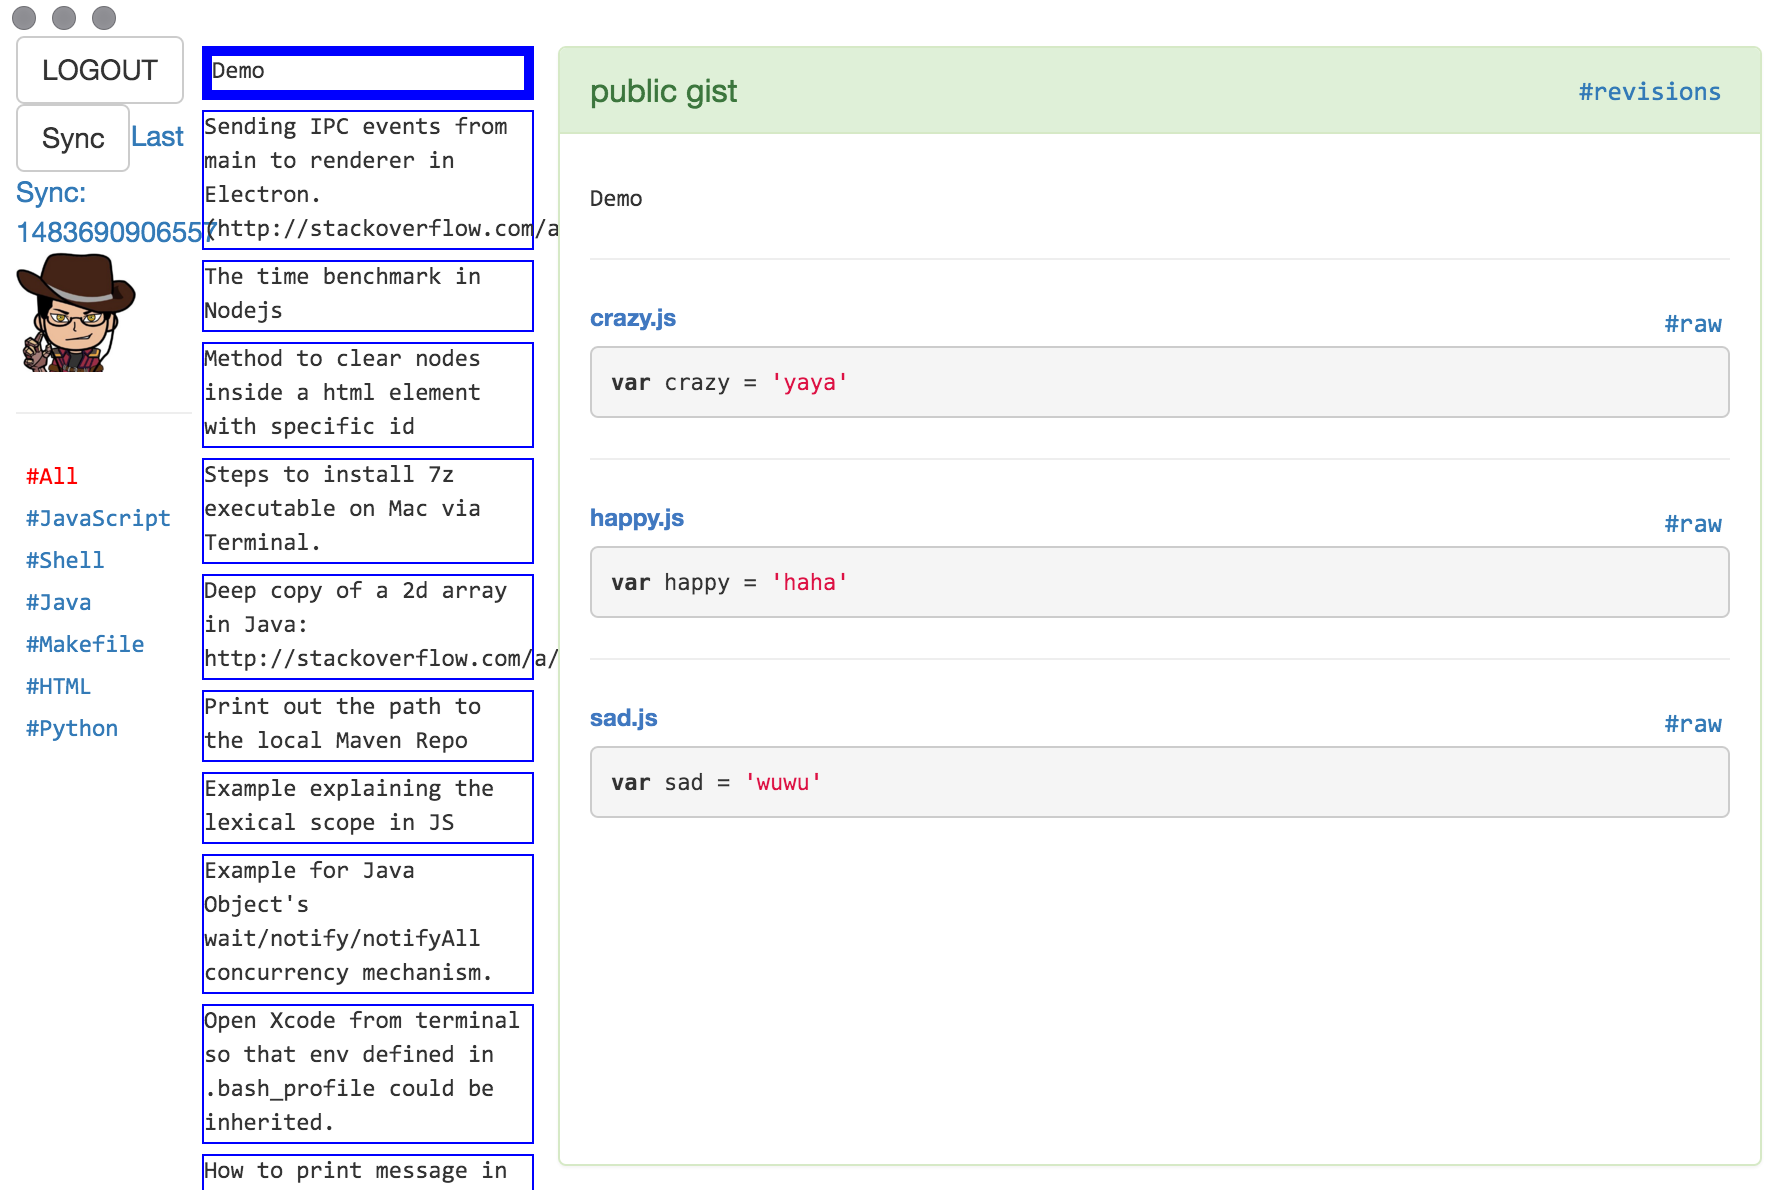
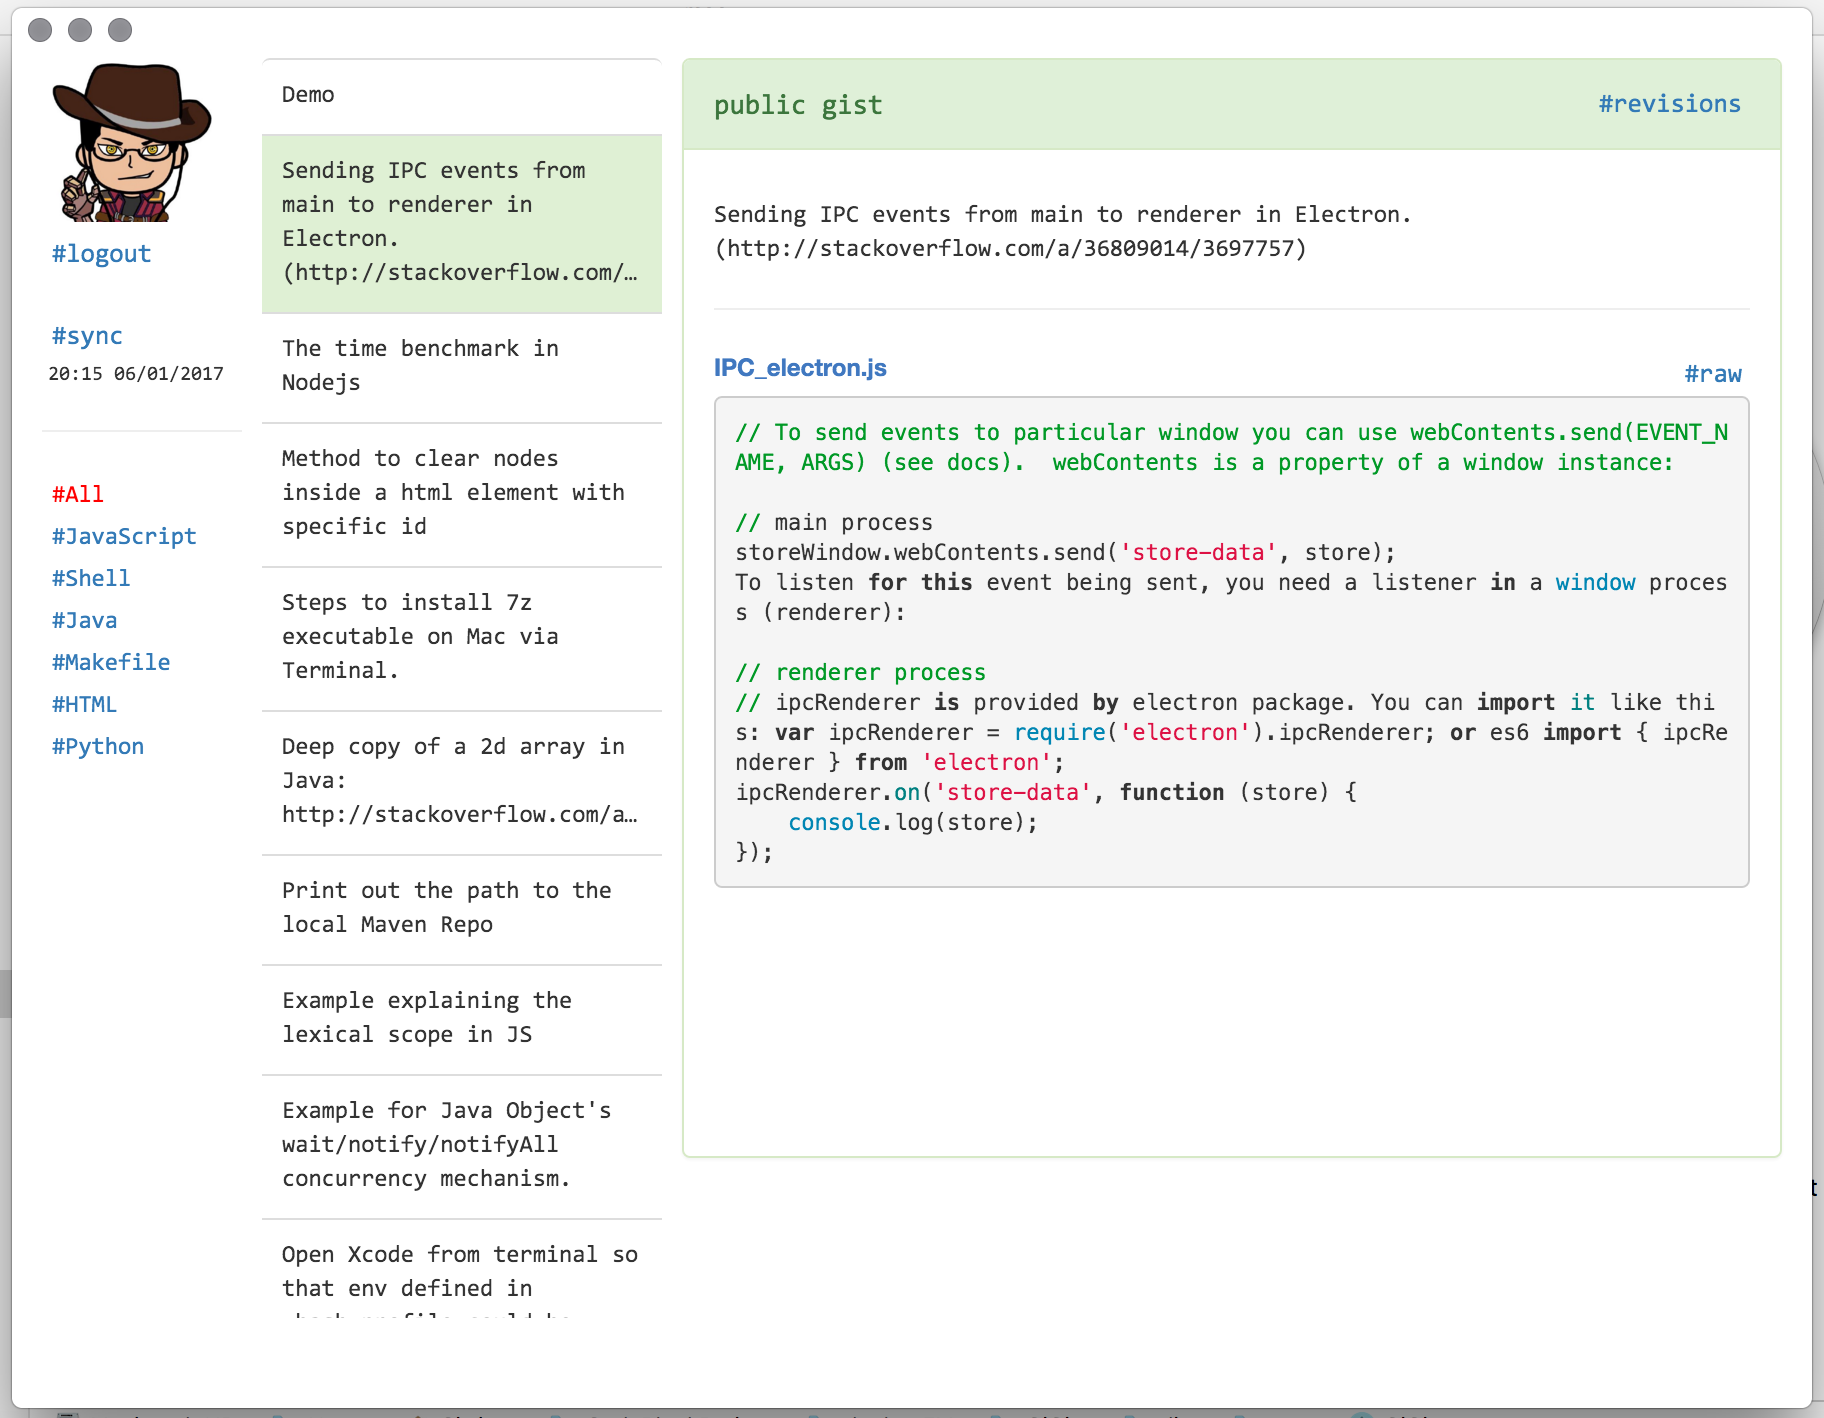
More stylish user profile

Changed region(s): [[0.0, 0.0, 1.0, 1.0], [0.3384, 0.6529, 0.3999, 0.7151]]

diff --git a/app/containers/userPanel/index.js b/app/containers/userPanel/index.js
@@ -11,19 +11,29 @@ class UserPanel extends Component {
 
   renderOutSection () {
     return (
-      <Button type="button" className='user-session-button'
-        onClick={ () => this.handleLoginClicked() }>LOGIN</Button>
+      <a href='#'
+        className='customized-button'
+        onClick={ this.handleLoginClicked.bind(this) }>
+        #login
+      </a>
     )
   }
 
   renderInSection () {
     return (
       <div>
-        <Button type="button" className='user-session-button'
-          onClick={ this.handleLogoutClicked.bind(this) }>LOGOUT</Button>
-        <Button type="button" className='user-session-button'
-          onClick={ this.handleSyncClicked.bind(this) }>Sync</Button>
-        <a>Last Sync: { this.props.syncTime }</a>
+        <a href='#'
+          className='customized-tag'
+          onClick={ this.handleLogoutClicked.bind(this) }>
+          #logout
+        </a>
+        <br/><br/>
+        <a href='#'
+          className='customized-tag'
+          onClick={ this.handleSyncClicked.bind(this) }>
+          #sync
+        </a>
+        <div className='customized-tag-small'>{ this.props.syncTime }</div>
       </div>
     )
   }

diff --git a/app/index.js b/app/index.js
@@ -9,6 +9,7 @@ import thunk from 'redux-thunk'
 import ReqPromise from 'request-promise'
 import AppContainer from './containers/appContainer'
 import Account from '../configs/account'
+import HumanReadableTime from 'human-readable-time'
 import RootReducer from './reducers'
 import {
   updateGists,
@@ -62,7 +63,7 @@ function launchAuthWindow () {
     if (code || error) {
       // Close the browser if code found or error
       console.log('** Clear the session and destroy the auth browser')
-    //   authWindow.webContents.session.clearStorageData([], () => {})
+      authWindow.webContents.session.clearStorageData([], () => {})
       authWindow.destroy()
     }
 
@@ -234,7 +235,7 @@ function updateUserGists (userLoginId, accessToken) {
       }) // gistList.forEach
 
       // refresh the redux state
-      setSyncTime(Date.now())
+      setSyncTime(HumanReadableTime(new Date()))
       updateGistStoreAfterSync(gists)
       updateLangTagsAfterSync(langTags)
       updateActiveLangTagAfterSync(langTags, activeTagCandidate)

diff --git a/app/containers/navigationPanelDetails/index.scss b/app/containers/navigationPanelDetails/index.scss
@@ -3,7 +3,7 @@
 	float: left;
 	width: 200px;
 	overflow: auto;
-    height: 95vh;
+    height: 90vh;
 }
 
 .snippet-thumnail-list-item {
@@ -20,7 +20,7 @@
 .snippet-thumnail {
 	margin: 5px;
 	font-family: Consolas, Menlo, Monaco, "Courier New", monospace;
-	font-size: 12px;
+	font-size: 13px;
 	overflow: hidden;
 	text-overflow: ellipsis;
 }
@@ -29,14 +29,14 @@
 	padding: 5px;
 	background: #DFF0D4;
 	font-family: Consolas, Menlo, Monaco, "Courier New", monospace;
-	font-size: 12px;
+	font-size: 13px;
 }
 
 .active-snippet-thumnail-private {
 	padding: 5px;
 	background: #F2DEDE;
 	font-family: Consolas, Menlo, Monaco, "Courier New", monospace;
-	font-size: 12px;
+	font-size: 13px;
 }
 
 .snippet-thumnail-description {
@@ -44,5 +44,5 @@
 	overflow: hidden;
 	text-overflow: ellipsis;
 	font-family: Consolas, Menlo, Monaco, "Courier New", monospace;
-	font-size: 12px;
+	font-size: 13px;
 }

diff --git a/app/containers/snippet/index.scss b/app/containers/snippet/index.scss
@@ -38,21 +38,21 @@
 
 .file-name {
   color: #4078C0;
-  font-size: 12px;
+  font-size: 13px;
   margin-bottom: 5px;
 }
 
 .modal-content {
   min-height: 500px;
   font-family: Consolas, Menlo, Monaco, "Courier New", monospace;
-  font-size: 12px;
+  font-size: 13px;
   white-space: nowrap;
   overflow: auto;
 }
 
 p {
   font-family: Consolas, Menlo, Monaco, "Courier New", monospace;
-  font-size: 12px;
+  font-size: 13px;
   margin: 10px 0px 0px 0px !important
 }
 

diff --git a/app/containers/navigationPanel/index.scss b/app/containers/navigationPanel/index.scss
@@ -1,14 +1,14 @@
 .menu-panel {
 	margin: 2px 5px;
 	float: left;
-	width: 96px;
+	width: 100px;
 	height: 95vh;
 }
 
 .lang-tag {
 	margin: 5px;
 	font-family: Consolas, Menlo, Monaco, "Courier New", monospace;
-	font-size: 12px;
+	font-size: 13px;
 }
 
 .lang-tag:hover {
@@ -23,7 +23,7 @@
 	margin: 5px;
 	color: red;
 	font-family: Consolas, Menlo, Monaco, "Courier New", monospace;
-	font-size: 12px;
+	font-size: 13px;
 }
 
 .active-lang-tag:hover {

diff --git a/main.js b/main.js
@@ -9,11 +9,11 @@ let mainWindow = null
 app.on('ready', () => {
   mainWindow = new BrowserWindow({
       width: 900,
-      height: 650,
+      height: 700,
       minWidth: 900,
-      minHeight: 650,
+      minHeight: 700,
       titleBarStyle: 'hidden'
   })
   mainWindow.loadURL(`file://${__dirname}/index.html`)
-  mainWindow.webContents.openDevTools()
+  // mainWindow.webContents.openDevTools()
 })

diff --git a/index.html b/index.html
@@ -6,7 +6,7 @@
 </head>
 <body>
   <div id="container"></div>
-  <script src="http://127.0.0.1:3000/bundle/app.bundle.js"></script>
-  <!-- <script src="./bundle/app.bundle.js"></script> -->
+  <!-- <script src="http://127.0.0.1:3000/bundle/app.bundle.js"></script> -->
+  <script src="./bundle/app.bundle.js"></script>
 </body>
 </html>

diff --git a/app/containers/userPanel/index.scss b/app/containers/userPanel/index.scss
@@ -8,3 +8,15 @@
   width: 80px;
   margin: 5px;
 }
+
+.customized-tag {
+  margin: 5px;
+  font-size: 13px;
+  font-family: Consolas, Menlo, Monaco, "Courier New", monospace;
+}
+
+.customized-tag-small {
+  margin: 3px;
+  font-size: 10px;
+  font-family: Consolas, Menlo, Monaco, "Courier New", monospace;
+}

diff --git a/app/containers/appContainer/index.scss b/app/containers/appContainer/index.scss
@@ -1,4 +1,4 @@
 .app-container {
-	margin: 20px 10px 5px 10px;
+	margin: 20px 10px 20px 10px;
 	max-height: 95vh;
 }
